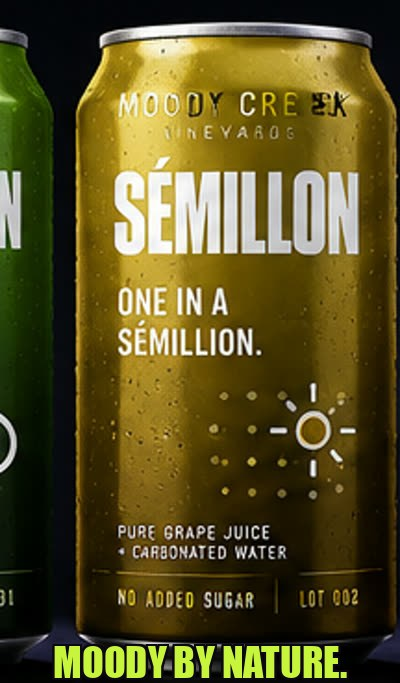
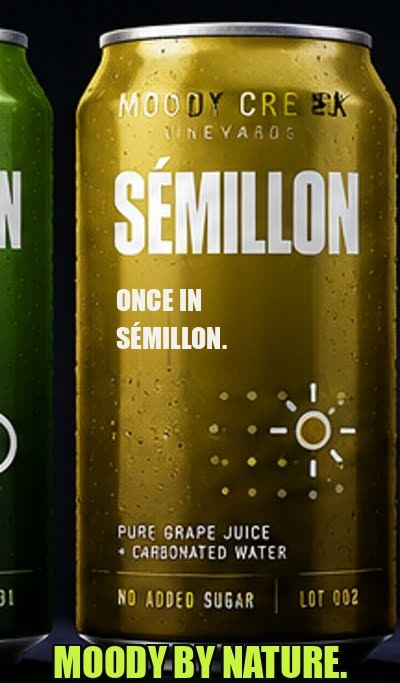
Sémillon pun: Once in Sémillon (render patched, code updated)

Changed region(s): [[0.27, 0.3997, 0.66, 0.5534]]

diff --git a/labels.html b/labels.html
@@ -158,7 +158,7 @@ a{color:var(--verjus)}
       <p class="brand">Moody Creek</p>
       <svg class="art" viewBox="0 0 100 100" aria-hidden="true"><circle cx="53" cy="55" r="45" fill="rgba(8,4,14,.38)"/><circle cx="50" cy="50" r="45" fill="#FFF7EE"/><g transform="rotate(-4 50 50)"><circle cx="18" cy="26" r="2.6" fill="#151020" opacity=".16"/><circle cx="34" cy="26" r="2.6" fill="#151020" opacity=".16"/><circle cx="50" cy="26" r="2.6" fill="#151020" opacity=".16"/><circle cx="66" cy="26" r="2.6" fill="#151020" opacity=".16"/><circle cx="82" cy="26" r="2.6" fill="#151020" opacity=".16"/><circle cx="18" cy="42" r="2.6" fill="#151020" opacity=".16"/><circle cx="34" cy="42" r="2.6" fill="#151020" opacity=".16"/><circle cx="50" cy="42" r="2.6" fill="#151020" opacity=".16"/><circle cx="82" cy="42" r="2.6" fill="#151020" opacity=".16"/><circle cx="18" cy="58" r="2.6" fill="#151020" opacity=".16"/><circle cx="34" cy="58" r="2.6" fill="#151020" opacity=".16"/><circle cx="50" cy="58" r="2.6" fill="#151020" opacity=".16"/><circle cx="66" cy="58" r="2.6" fill="#151020" opacity=".16"/><circle cx="82" cy="58" r="2.6" fill="#151020" opacity=".16"/><circle cx="18" cy="74" r="2.6" fill="#151020" opacity=".16"/><circle cx="34" cy="74" r="2.6" fill="#151020" opacity=".16"/><circle cx="50" cy="74" r="2.6" fill="#151020" opacity=".16"/><circle cx="66" cy="74" r="2.6" fill="#151020" opacity=".16"/><circle cx="82" cy="74" r="2.6" fill="#151020" opacity=".16"/><circle cx="66" cy="42" r="8" fill="#E8C25A" stroke="#151020" stroke-width="3.5"/><g stroke="#151020" stroke-width="3" stroke-linecap="round"><line x1="66" y1="26" x2="66" y2="20"/><line x1="66" y1="58" x2="66" y2="64"/><line x1="50" y1="42" x2="44" y2="42"/><line x1="82" y1="42" x2="88" y2="42"/><line x1="55" y1="31" x2="51" y2="27"/><line x1="77" y1="53" x2="81" y2="57"/></g></g></svg>
       <h3 class="variety">Sémillon</h3>
-      <p class="punline">One in a Sémillon.</p>
+      <p class="punline">Once in Sémillon.</p>
       <p class="kindline">White grape &middot; Sparkling</p>
       <p class="mbn">Moody by Nature.</p>
       <div class="bigstat">

diff --git a/index.html b/index.html
@@ -516,7 +516,7 @@ footer { border-top: 1px solid var(--line); padding-block: clamp(2.5rem,6vw,4rem
       <div class="scrim" aria-hidden="true"></div>
       <p class="lot">Lot 002 · Sep</p>
       <h3 class="nm">Sémillon</h3>
-      <p class="var">One in a Sémillon.</p>
+      <p class="var">Once in Sémillon.</p>
       <p class="note">Fig, beeswax, yellow apple. The grape nobody knew we had.</p>
       <p class="spec"><span>18% juice</span><span>12g sugar</span></p>
     </article>
